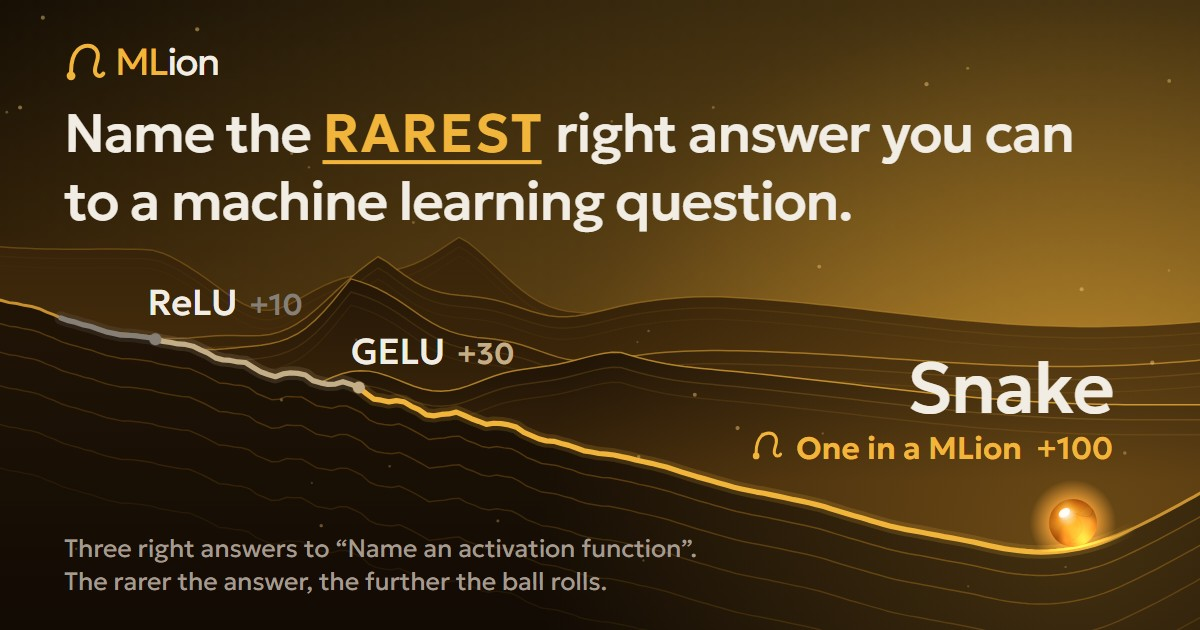
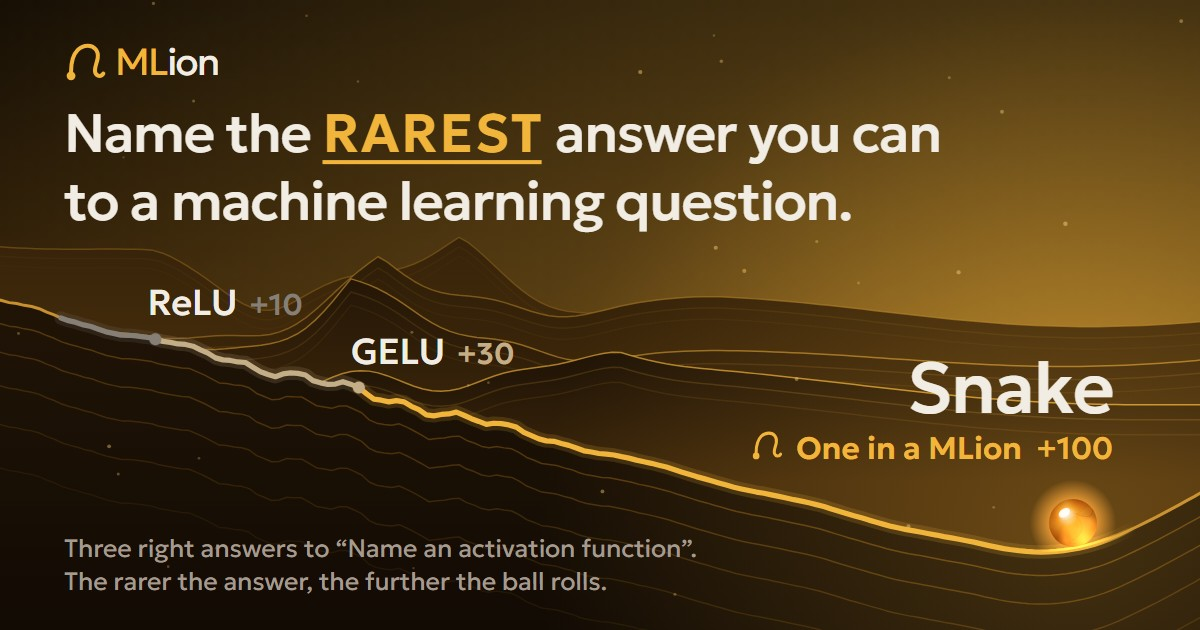
Home line and link preview: "Name the RAREST answer you can ..." (no "right")
The user found "right" implied: a wrong answer scores nothing, which every player
learns in the first round.

Claude-Session: https://claude.ai/code/session_01NbrVzSzK7tnHZZqHAGhKyZ

Changed region(s): [[0.4625, 0.181, 0.8942, 0.2714]]

diff --git a/index.html b/index.html
@@ -5,7 +5,7 @@
   <!-- What the page may load and talk to. tools/build.js writes the sha256 of each inline script into script-src;
        connect-src: the Supabase project, the live-room relay, and the reserved test host the e2e mocks answer.
        GitHub Pages can't send headers, so frame-ancestors (ignored in a meta tag) is done by the script below. -->
-  <meta http-equiv="Content-Security-Policy" content="default-src 'self'; script-src 'self' 'sha256-nfnGaNZKFJ22IQbJPPzgKnd4wHe6eqjSIphxlvEOYTo=' 'sha256-Xfukbjw8KGbfR5vtMADfFEujTQ4O8h3PEklQrSL2TOw=' 'sha256-64Ki0cnuiPL36PTwW2NKmUkNaxnfSIRTxhMRkRyq7hg=' 'sha256-hpGgbGptkn+3IiKjVaNO9/Xos4NT4wnXqpbfNBUjCEU='; style-src 'self' 'unsafe-inline' https://fonts.googleapis.com; font-src 'self' https://fonts.gstatic.com; img-src 'self' data: blob:; connect-src 'self' wss://mlion.lol wss://www.mlion.lol https://ozqnznvxxxnefeetidwq.supabase.co wss://public.cloud.shiftr.io https://mock.supabase.test; worker-src 'self'; manifest-src 'self'; media-src 'none'; object-src 'none'; frame-src 'none'; base-uri 'none'; form-action 'self'">
+  <meta http-equiv="Content-Security-Policy" content="default-src 'self'; script-src 'self' 'sha256-nfnGaNZKFJ22IQbJPPzgKnd4wHe6eqjSIphxlvEOYTo=' 'sha256-Xfukbjw8KGbfR5vtMADfFEujTQ4O8h3PEklQrSL2TOw=' 'sha256-64Ki0cnuiPL36PTwW2NKmUkNaxnfSIRTxhMRkRyq7hg=' 'sha256-pfTd1jnlGfGG7aOw7/zSOTz5yBlbYhpfcSM+Qu7XxTE='; style-src 'self' 'unsafe-inline' https://fonts.googleapis.com; font-src 'self' https://fonts.gstatic.com; img-src 'self' data: blob:; connect-src 'self' wss://mlion.lol wss://www.mlion.lol https://ozqnznvxxxnefeetidwq.supabase.co wss://public.cloud.shiftr.io https://mock.supabase.test; worker-src 'self'; manifest-src 'self'; media-src 'none'; object-src 'none'; frame-src 'none'; base-uri 'none'; form-action 'self'">
   <meta name="referrer" content="no-referrer">
   <meta name="viewport" content="width=device-width, initial-scale=1, viewport-fit=cover">
   <script>
@@ -61,14 +61,14 @@
   <meta property="og:url" content="https://mlion.lol/">
   <meta property="og:title" content="MLion, a daily word game for ML people">
   <meta property="og:description" content="Seven prompts a day. Common answers barely count.">
-  <meta property="og:image" content="https://mlion.lol/img/og.jpg?v=1dqk802">
+  <meta property="og:image" content="https://mlion.lol/img/og.jpg?v=1uiqtsi">
   <meta property="og:image:type" content="image/jpeg">
   <meta property="og:image:width" content="1200">
   <meta property="og:image:height" content="630">
-  <meta property="og:image:alt" content="Name the rarest right answer you can to a machine learning question. Three right answers to “Name an activation function”: ReLU scores 10, GELU 30, and Snake rolls to the bottom for 100.">
+  <meta property="og:image:alt" content="Name the rarest answer you can to a machine learning question. Three right answers to “Name an activation function”: ReLU scores 10, GELU 30, and Snake rolls to the bottom for 100.">
   <meta name="twitter:card" content="summary_large_image">
-  <meta name="twitter:image" content="https://mlion.lol/img/og.jpg?v=1dqk802">
-  <meta name="twitter:image:alt" content="Name the rarest right answer you can to a machine learning question. Three right answers to “Name an activation function”: ReLU scores 10, GELU 30, and Snake rolls to the bottom for 100.">
+  <meta name="twitter:image" content="https://mlion.lol/img/og.jpg?v=1uiqtsi">
+  <meta name="twitter:image:alt" content="Name the rarest answer you can to a machine learning question. Three right answers to “Name an activation function”: ReLU scores 10, GELU 30, and Snake rolls to the bottom for 100.">
   <link rel="icon" href="img/favicon.svg" type="image/svg+xml">
   <link rel="apple-touch-icon" href="img/apple-touch-icon.png">
   <link rel="manifest" href="manifest.webmanifest">
@@ -135,7 +135,7 @@
       document.getElementById("app").innerHTML = '<section class="screen pre-home"><i hidden></i>' +
         '<div class="home-hero' + (calm ? "" : " arrive") + '"><div class="brandmark">' + mark +
         '<h1 class="wordmark" aria-label="MLion"><span class="line"><span><span class="ml">ML</span>ion</span></span></h1></div>' +
-        '<p class="pitch">Name the <em class="rare">rarest</em> right answer you can to a machine learning question.</p>' +
+        '<p class="pitch">Name the <em class="rare">rarest</em> answer you can to a machine learning question.</p>' +
         '<div class="hero-cta"><a class="btn primary big" href="#daily">Play today\'s daily</a><a class="btn big" href="#live">Play with friends</a></div>' +
         '</div></section>';
     })();
@@ -182,6 +182,6 @@
   <script src="js/hero3d.js?v=1rjyu6z"></script>
   <script src="js/sharecard.js?v=1dbmvj5"></script>
   <meta name="mlion:explain" content="js/explain.js?v=dkyo7q">
-  <script src="js/app.js?v=af7a6m"></script>
+  <script src="js/app.js?v=1co0x7o"></script>
 </body>
 </html>

diff --git a/sw.js b/sw.js
@@ -12,7 +12,7 @@
  * new name. A new worker installs everything fresh (bypassing the HTTP cache), then waits: the page tells
  * it to take over when no game is running, and reloads once onto the new version (app.js, "updates"). */
 "use strict";
-const ASSETS = /*ASSETS*/["./","css/style.css?v=1dxww1","js/engine.js?v=1eqf29n","js/data.js?v=18c4ws5","js/landscape.js?v=qe5sro","js/hero3d.js?v=1rjyu6z","js/sharecard.js?v=1dbmvj5","js/app.js?v=af7a6m","js/explain.js?v=dkyo7q","manifest.webmanifest","img/favicon.svg","img/icon-192.png","img/apple-touch-icon.png"]/*END*/;
+const ASSETS = /*ASSETS*/["./","css/style.css?v=1dxww1","js/engine.js?v=1eqf29n","js/data.js?v=18c4ws5","js/landscape.js?v=qe5sro","js/hero3d.js?v=1rjyu6z","js/sharecard.js?v=1dbmvj5","js/app.js?v=1co0x7o","js/explain.js?v=dkyo7q","manifest.webmanifest","img/favicon.svg","img/icon-192.png","img/apple-touch-icon.png"]/*END*/;
 const CACHE = "mlion-" + ASSETS.join("|").split("").reduce((h, c) => (Math.imul(h, 31) + c.charCodeAt(0)) | 0, 7).toString(36);
 
 // The build's content hash (E.hashString in js/engine.js: 32-bit FNV-1a over the text, base 36).

diff --git a/js/app.js b/js/app.js
@@ -2564,7 +2564,7 @@ Reply with only JSON: {"match": "<canonical name exactly as written in the list>
       ${bannerHtml()}
       <div class="home-hero arrive">
         <div class="brandmark">${V.mark("hero-mark")}<h1 class="wordmark" aria-label="MLion"><span class="line"><span><span class="ml">ML</span>ion</span></span></h1></div>
-        <p class="pitch">Name the <em class="rare">rarest</em> right answer you can to a machine learning question.</p>
+        <p class="pitch">Name the <em class="rare">rarest</em> answer you can to a machine learning question.</p>
         <div class="hero-cta">${cta}</div>
         ${xpChipHtml()}
       </div>

diff --git a/tools/icons.js b/tools/icons.js
@@ -91,7 +91,7 @@ async function drawOg() {
   lockup(c, PAD, 40, 44, "");
   const size = 54;
   c.textAlign = "left"; c.textBaseline = "alphabetic";
-  const words = [["Name the ", COL.ink, 500, -0.022], ["RAREST", COL.gold, 600, 0.03], [" right answer you can", COL.ink, 500, -0.022]];
+  const words = [["Name the ", COL.ink, 500, -0.022], ["RAREST", COL.gold, 600, 0.03], [" answer you can", COL.ink, 500, -0.022]];
   let x = PAD;
   const y1 = 152, y2 = 220;
   for (const [t, col, wt, tr] of words) {

diff --git a/CONTEXT.md b/CONTEXT.md
@@ -746,7 +746,7 @@ What Discord, Slack, X and iMessage show when someone pastes the site address.
 - `img/og.jpg`, 1200x630, about 120 KB (a JPEG at 0.9 since 2026-11-07: the stage's soft light made a 600 KB
   PNG, and WhatsApp skips preview images over about 300 KB; tests/sharecard.e2e.js checks the cap), drawn by
   `node tools/icons.js og` with the share card's own pieces (`MLION_CARD.kit`, so the course is the play
-  stage's poster, see below): the home page's line "Name the RAREST right answer you can to a machine
+  stage's poster, see below): the home page's line "Name the RAREST answer you can to a machine
   learning question." (RAREST gold and underlined), three right answers to "Name an activation function"
   where they land (ReLU +10 near the rim, GELU +30, Snake "One in a MLion +100" in the basin with the
   ball; spaced to read, not to scale, so the poster's score marks are off), and a caption saying the rarer
@@ -1853,8 +1853,8 @@ run is grey, a deep one gold, as in the game. Marks are left out past 12 prompts
 Cards stay PNG (the only image type a page can put on the clipboard): about 0.6 MB wide, 1.4 MB story; the test
 caps are 1.5 MB and 3 MB. "ML" is gold in the card's lockup.
 
-Home page, same day (user): the pitch is now "Name the RAREST right answer you can to a machine learning
-question." (in index.html's first-visit script and app.js renderHome; the build re-stamps the CSP hash); "ML" in
+Home page, same day (user): the pitch is now "Name the RAREST answer you can to a machine learning
+question." ("right" dropped the same day: the user found it implied) (in index.html's first-visit script and app.js renderHome; the build re-stamps the CSP hash); "ML" in
 gold in the wordmark and the top bar's brand (`.ml`); under "One in a MLion" a small `.home-credit` line:
 "Krillion, but for machine learning. Made by @cowile", @cowile linking to the user's Discord profile. The user
 asked for the credit on the site, not in the images. tools/icons.js reads MARK by running landscape.js in a
